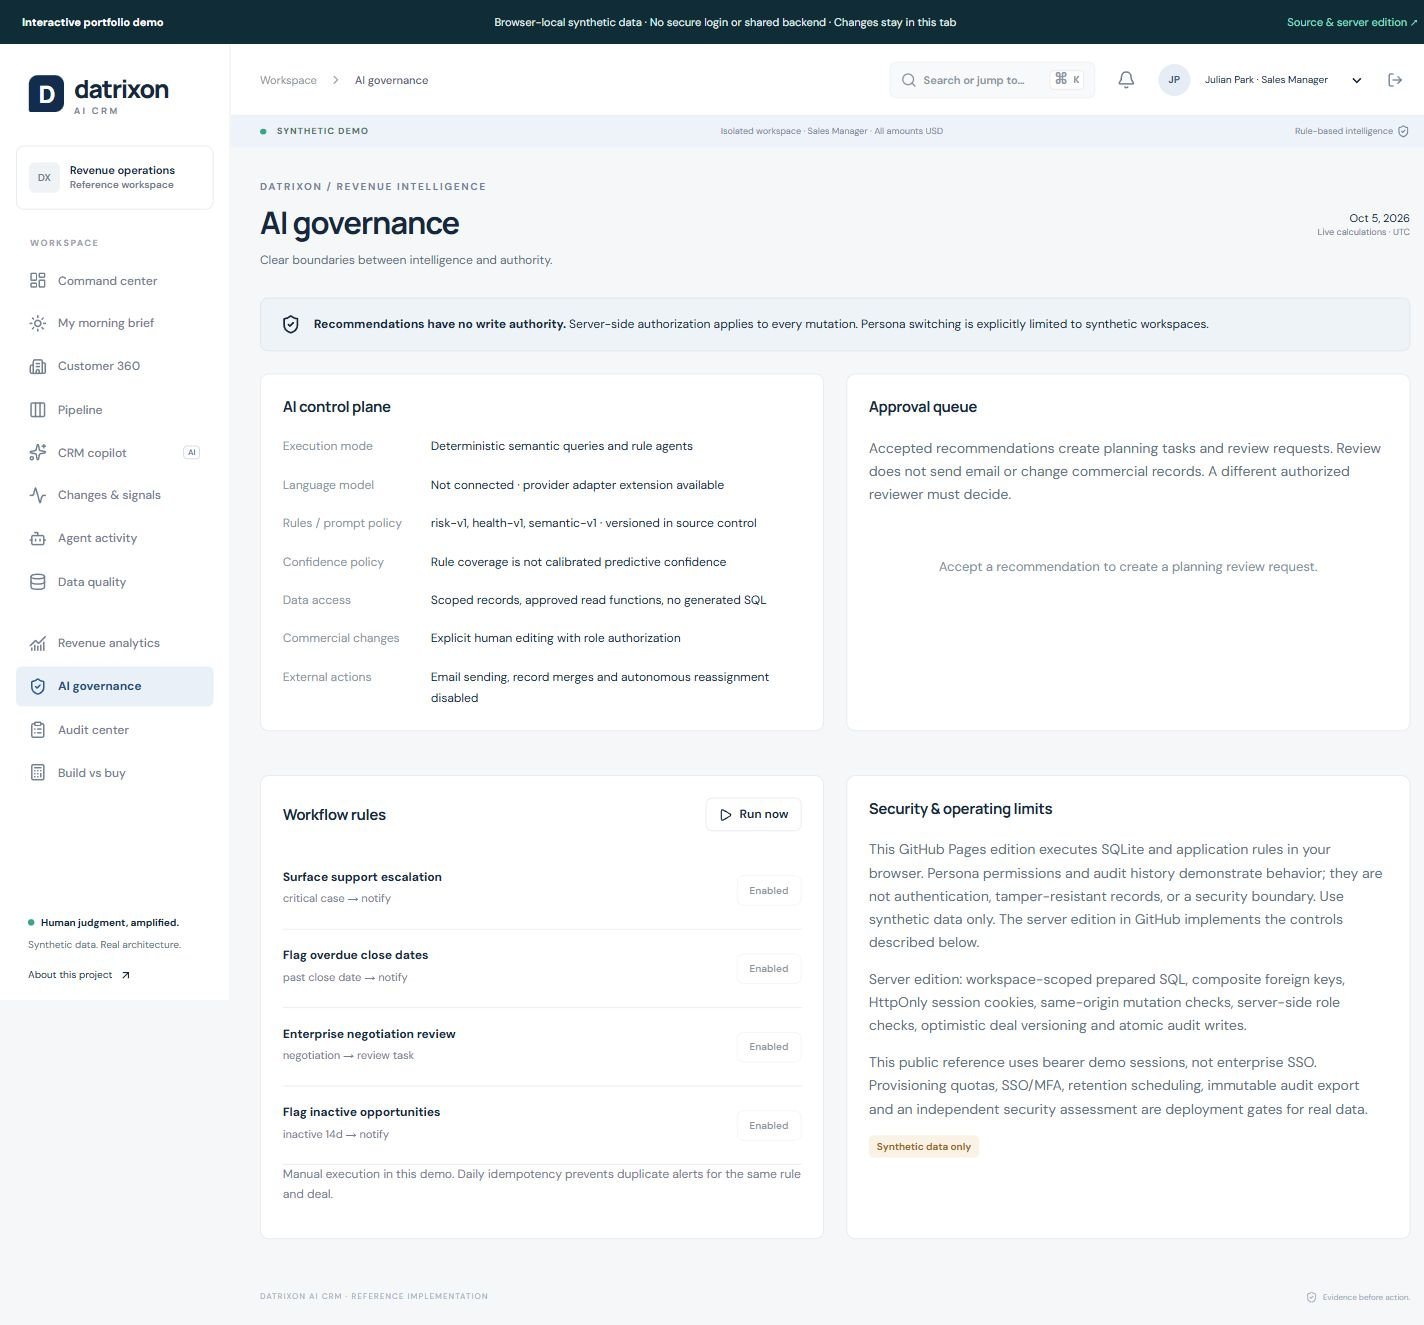
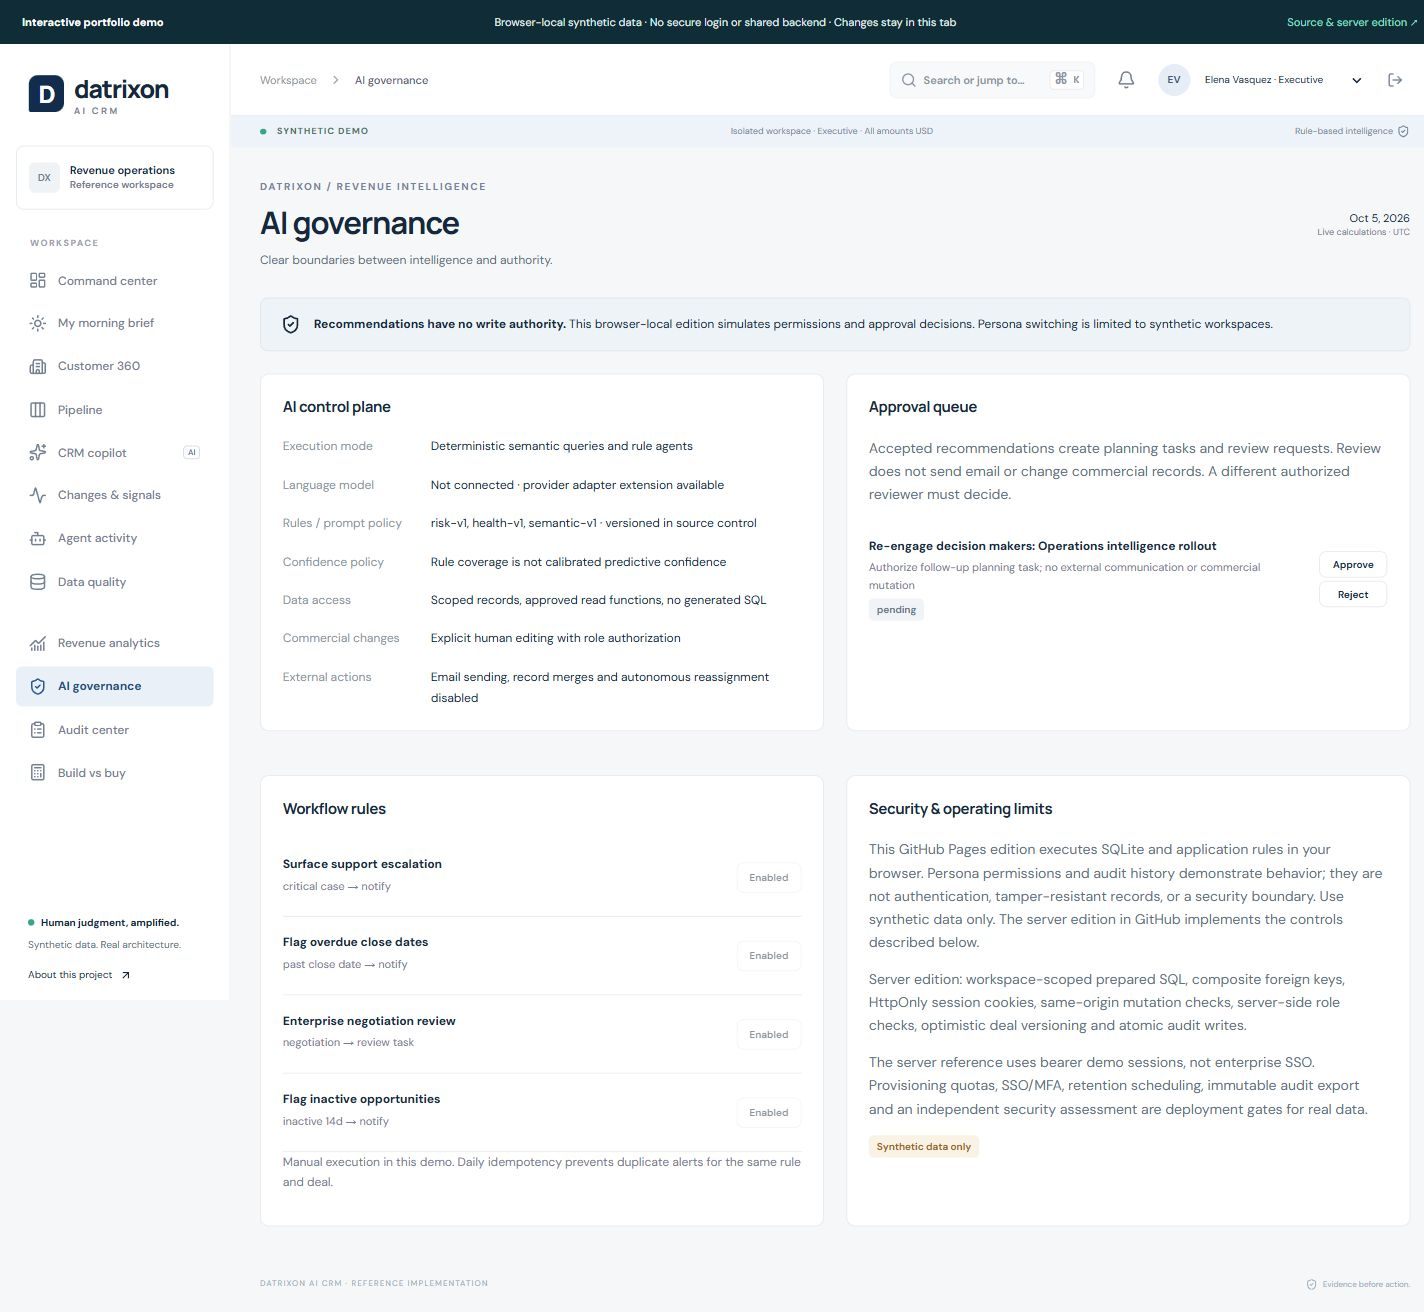
docs(release): link live GitHub Pages demo and record verification

diff --git a/docs/03-architecture.md b/docs/03-architecture.md
@@ -26,3 +26,16 @@ flowchart TD
 The HTTP route owns transport, cookies, quotas and error responses. The service owns authorization, validation and transactional mutations. The repository owns database access. Pure intelligence modules operate on scoped datasets. UI visibility is never the authorization boundary.
 
 SQLite/D1 supports real persistence without a database server. Reads are bounded to 2,000 rows per operational table and fail rather than silently truncate. Production scale needs resource pagination, database-side aggregation and potentially PostgreSQL plus an analytical replica. A service mesh, queue and warehouse would add operating cost without improving the current demonstration.
+
+## Public GitHub Pages distribution
+
+```mermaid
+flowchart LR
+  Pages[GitHub Pages static assets] --> React[React workspace]
+  React --> Transport[Browser-local demo transport]
+  Transport --> Shared[Shared validated CRM services]
+  Shared --> SQLite[(SQLite WASM)]
+  SQLite --> Tab[Disposable tab storage]
+```
+
+There is no trusted server in this distribution. The browser owner can inspect or modify all data and persona state. The Worker edition above demonstrates enforced boundaries; the Pages edition demonstrates product workflows without requiring backend credentials. Both editions share migrations, scoring, semantic queries and mutation rules.

diff --git a/docs/review.md b/docs/review.md
@@ -14,3 +14,9 @@
 | Recruiter          | Exaggerated business impact                | Interview narrative separates implementation from unmeasured outcomes |
 
 This is an internal engineering review record, not independent certification. Remaining limits are consolidated in 22-limitations.md.
+
+## Release verification
+
+GitHub Actions independently passed clean installation, lint, strict type checks, 36 tests, formatting, server build, migrations, HTTP smoke checks and the Pages build. The Pages deployment succeeded. Desktop and 390px mobile checks covered navigation, creation and persistence, evidence-backed copilot, agent execution, persona switching, meeting memory, approval requests and the calculator. Ten screenshots are included. No new browser-console errors were observed on the Pages build.
+
+A local Windows emulator run intermittently stalled during sequential HTTP checks; a concurrent liveness probe released the pending request. The unattended Linux CI smoke passed. This environment-specific behavior has not been established as a production runtime defect, and no performance guarantee is claimed. Docker remains untested. The public Pages sandbox has no server authentication or confidential-data isolation.

diff --git a/docs/21-demo-guide.md b/docs/21-demo-guide.md
@@ -14,4 +14,4 @@ Start a fresh synthetic workspace. Julian Park is the default Sales Manager. The
 8. **Analyst persona:** verify read-only behavior. **Maya Thompson:** verify account-scoped results.
 9. **Build vs buy:** change engineering maintenance costs and observe the three-year tradeoff.
 
-All names and events are fictional. Logging an email does not send it. Completing a recommendation does not prove external customer action. Session access lasts 24 hours.
+All names and events are fictional. Logging an email does not send it. Completing a recommendation does not prove external customer action. Server session access lasts 24 hours. The Pages scenario lives in browser tab storage; use End demo session to reset it.

diff --git a/README.md b/README.md
@@ -2,6 +2,8 @@
 
 ### AI-native customer intelligence & revenue operations
 
+**[Live demo on GitHub Pages](https://jithendra-data.github.io/datrixon-ai-crm/) · [Validation & deployment](https://github.com/Jithendra-data/datrixon-ai-crm/actions)**
+
 **Traditional CRMs capture data. Datrixon interprets records, explains changes, identifies risk and puts the next useful action in front of a person.**
 
 A working portfolio/reference implementation combining a relational customer model, deterministic intelligence, observable agents and explicit human decisions. This is a separate project from [Datrixon ERP Intelligence](https://github.com/Jithendra-data/datrixon).
